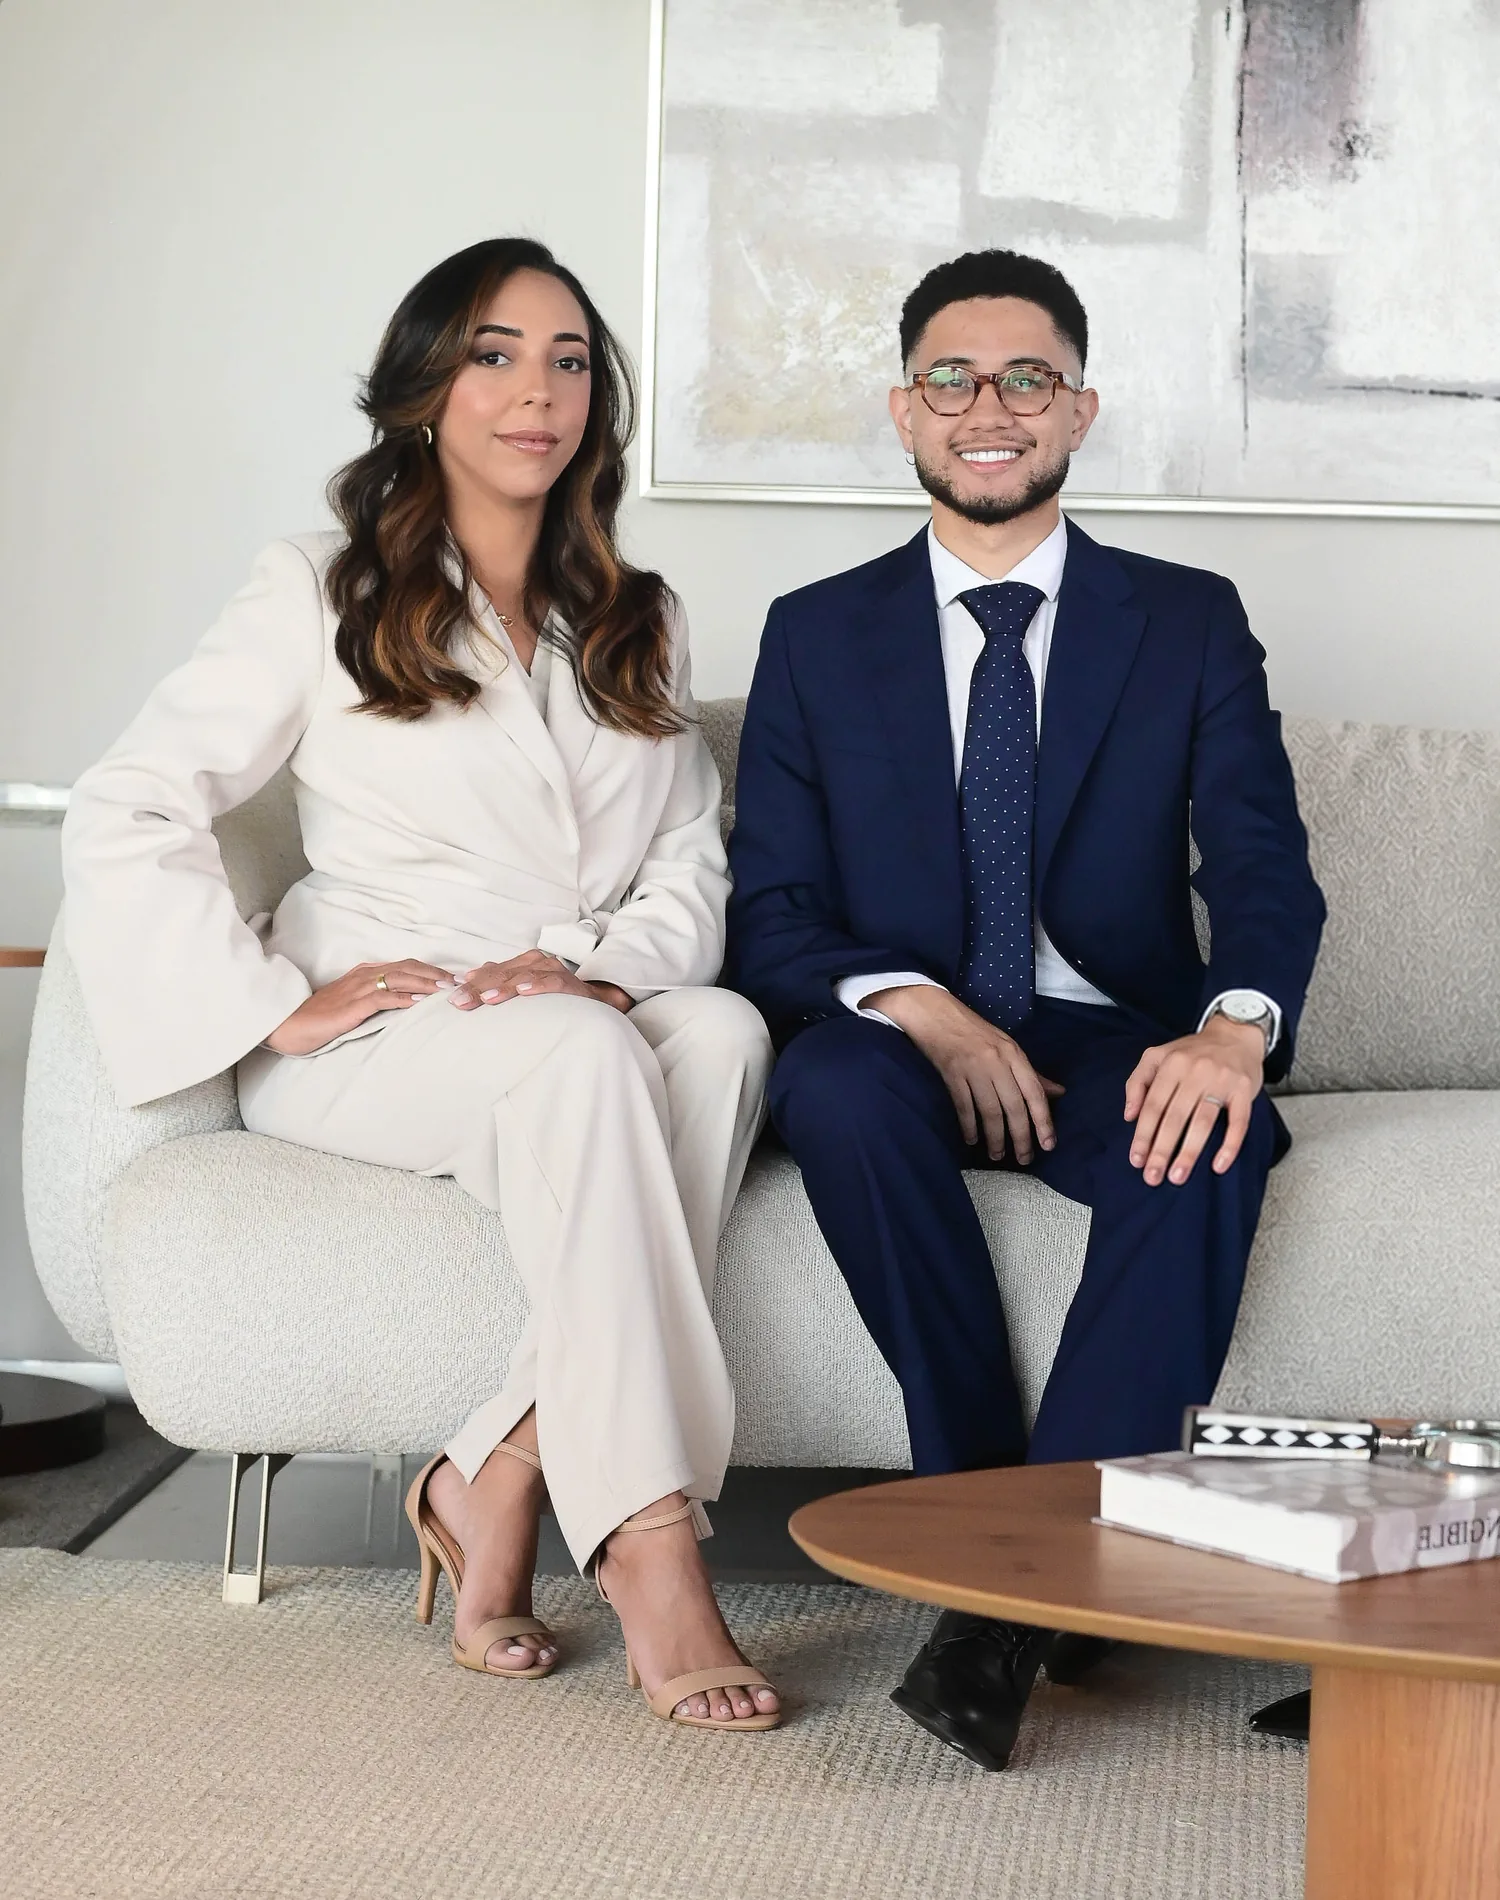
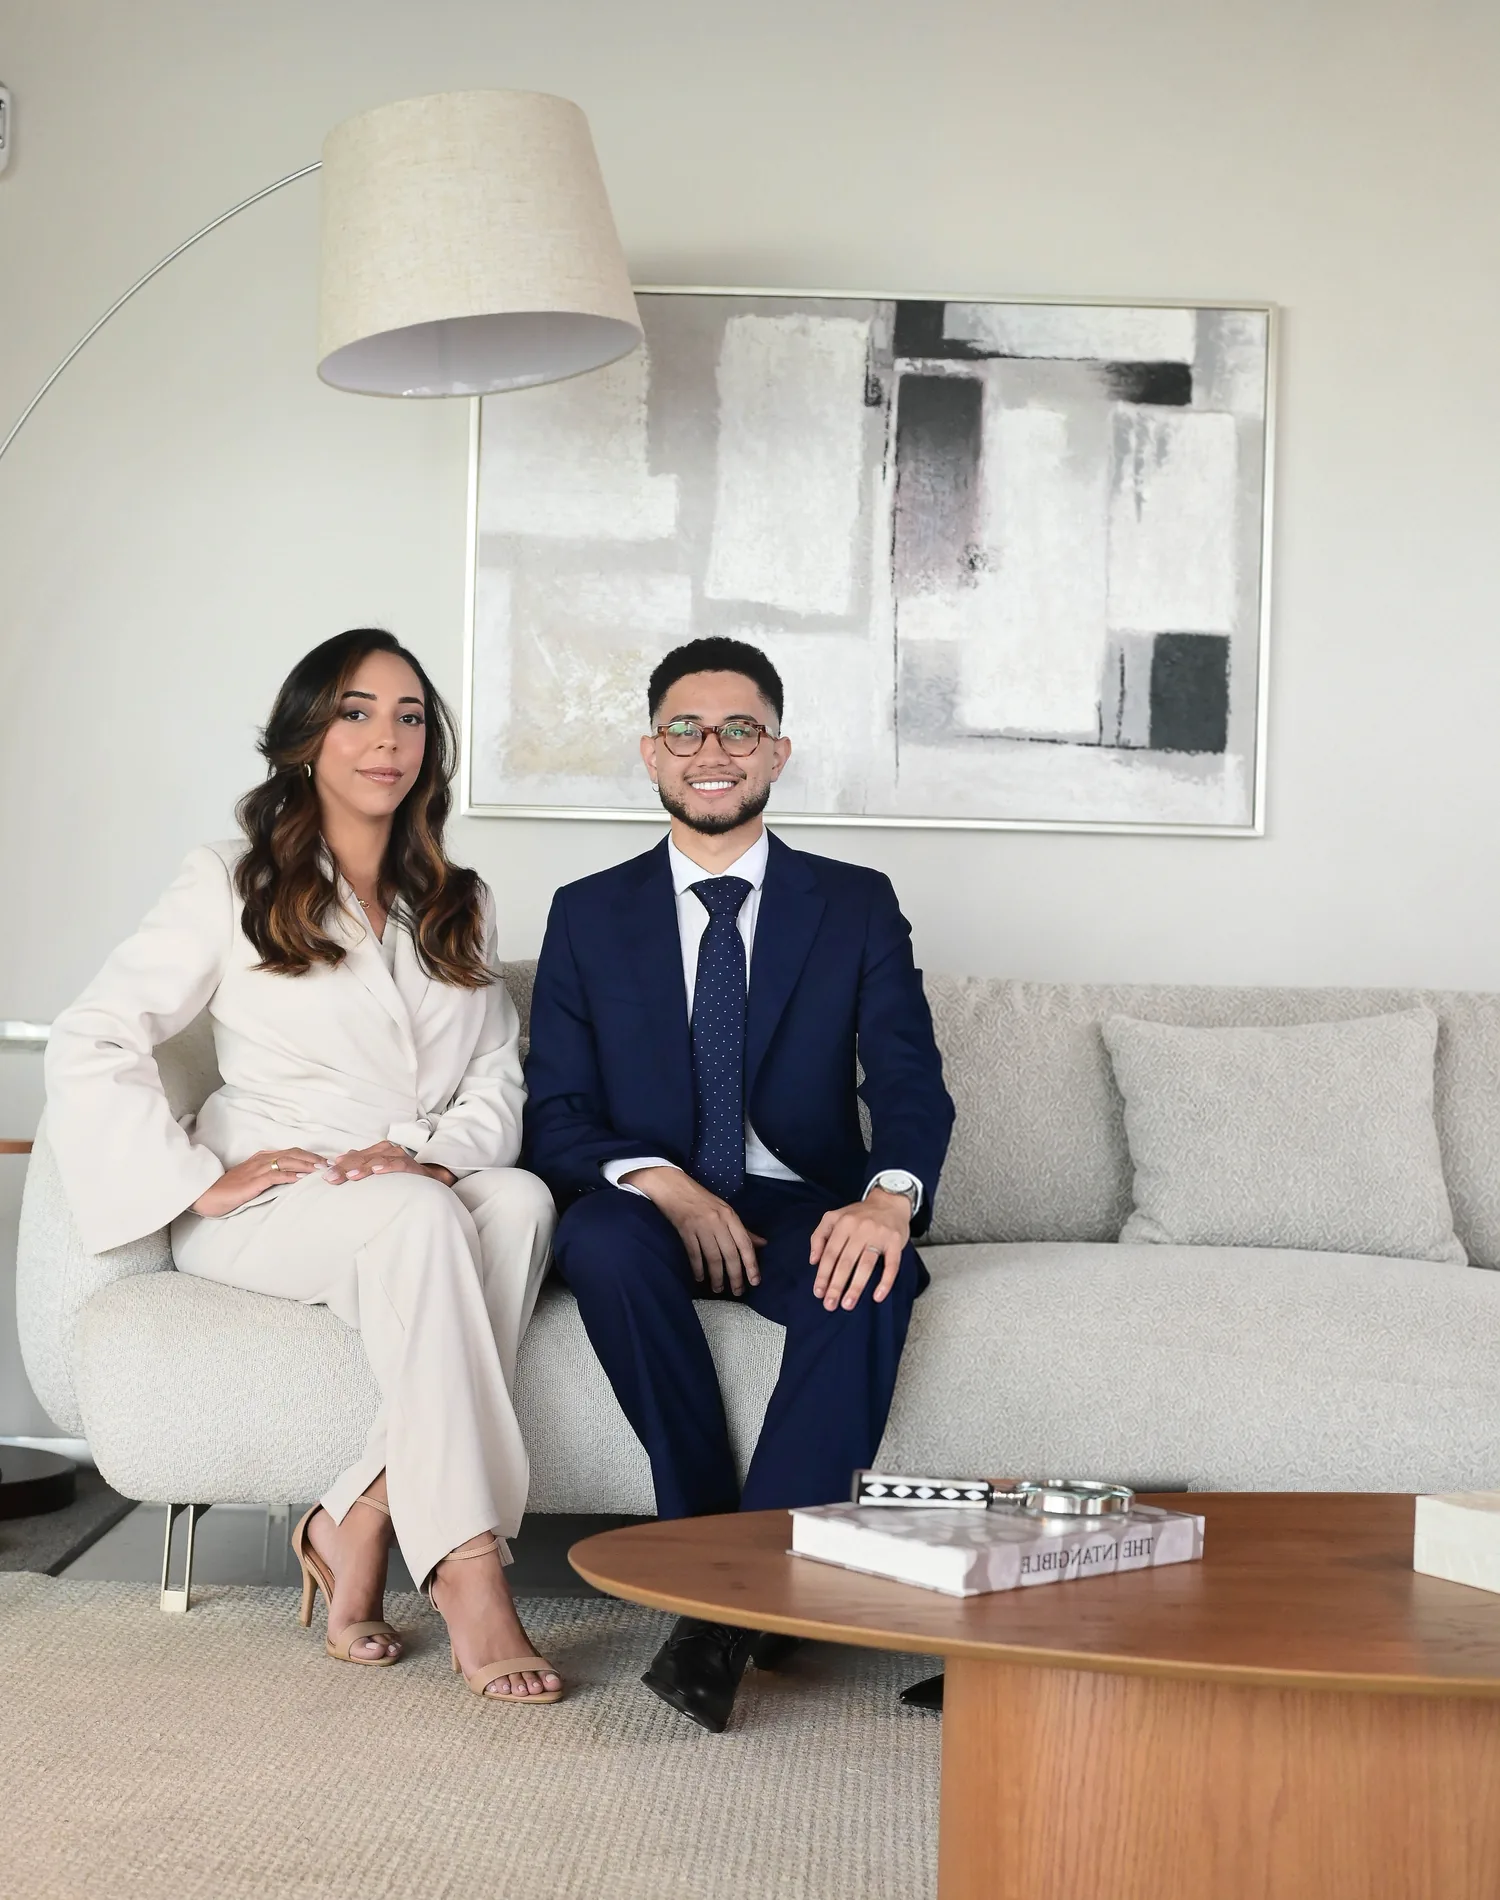
Capa: volta a foto sem zoom e desloca a moldura para centralizar a dupla

diff --git a/src/app/page.tsx b/src/app/page.tsx
@@ -63,14 +63,14 @@ export default function Home() {
         {/* Foto em sangria: cobre a metade direita, altura cheia, e some
             no fundo por máscara de gradiente. Em telas estreitas ela vai
             para trás do texto, bem apagada, para não competir com a leitura. */}
-        <div className="pointer-events-none absolute inset-y-0 right-0 w-full lg:w-[58%]">
+        <div className="pointer-events-none absolute inset-y-0 right-0 w-full lg:-right-[12%] lg:w-[58%]">
           <Image
             src="/fotos/hero-sofa-2655i.webp"
             alt="Thayane Barbosa e Vitor Silvino, sócios do SSB Advogados"
             fill
             priority
             sizes="(max-width: 1024px) 100vw, 58vw"
-            className="object-cover object-[48%_28%] opacity-20 lg:opacity-100"
+            className="object-cover object-[30%_28%] opacity-20 lg:opacity-100"
             style={{
               maskImage:
                 "linear-gradient(to right, transparent 0%, rgba(0,0,0,0.55) 10%, #000 26%)",
